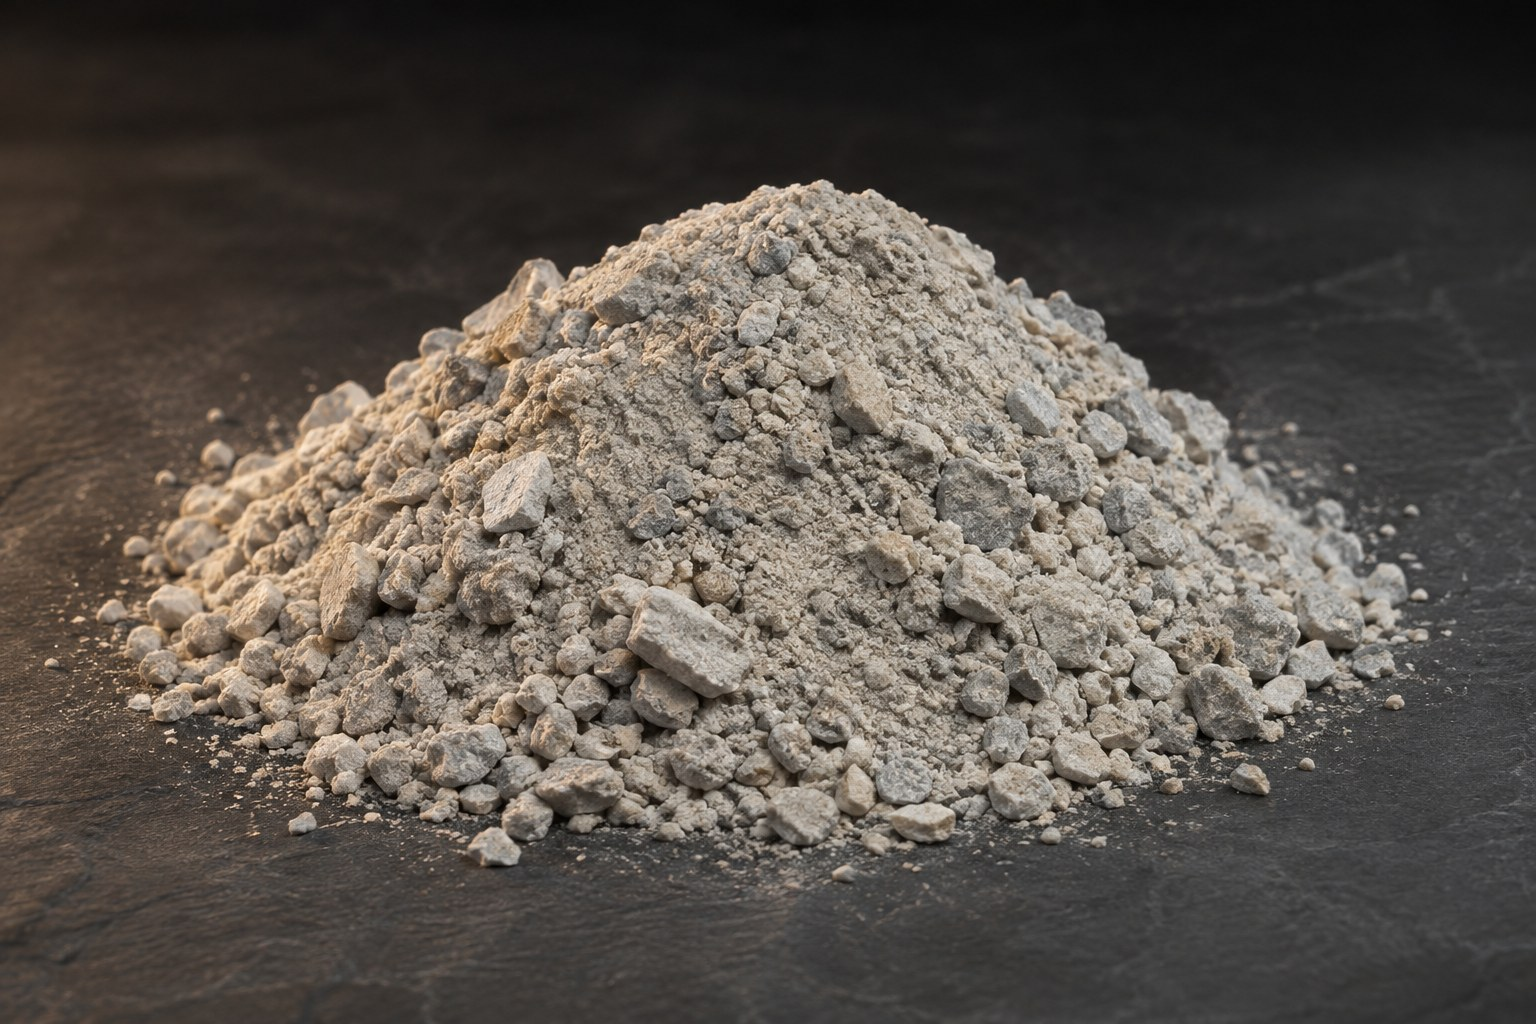
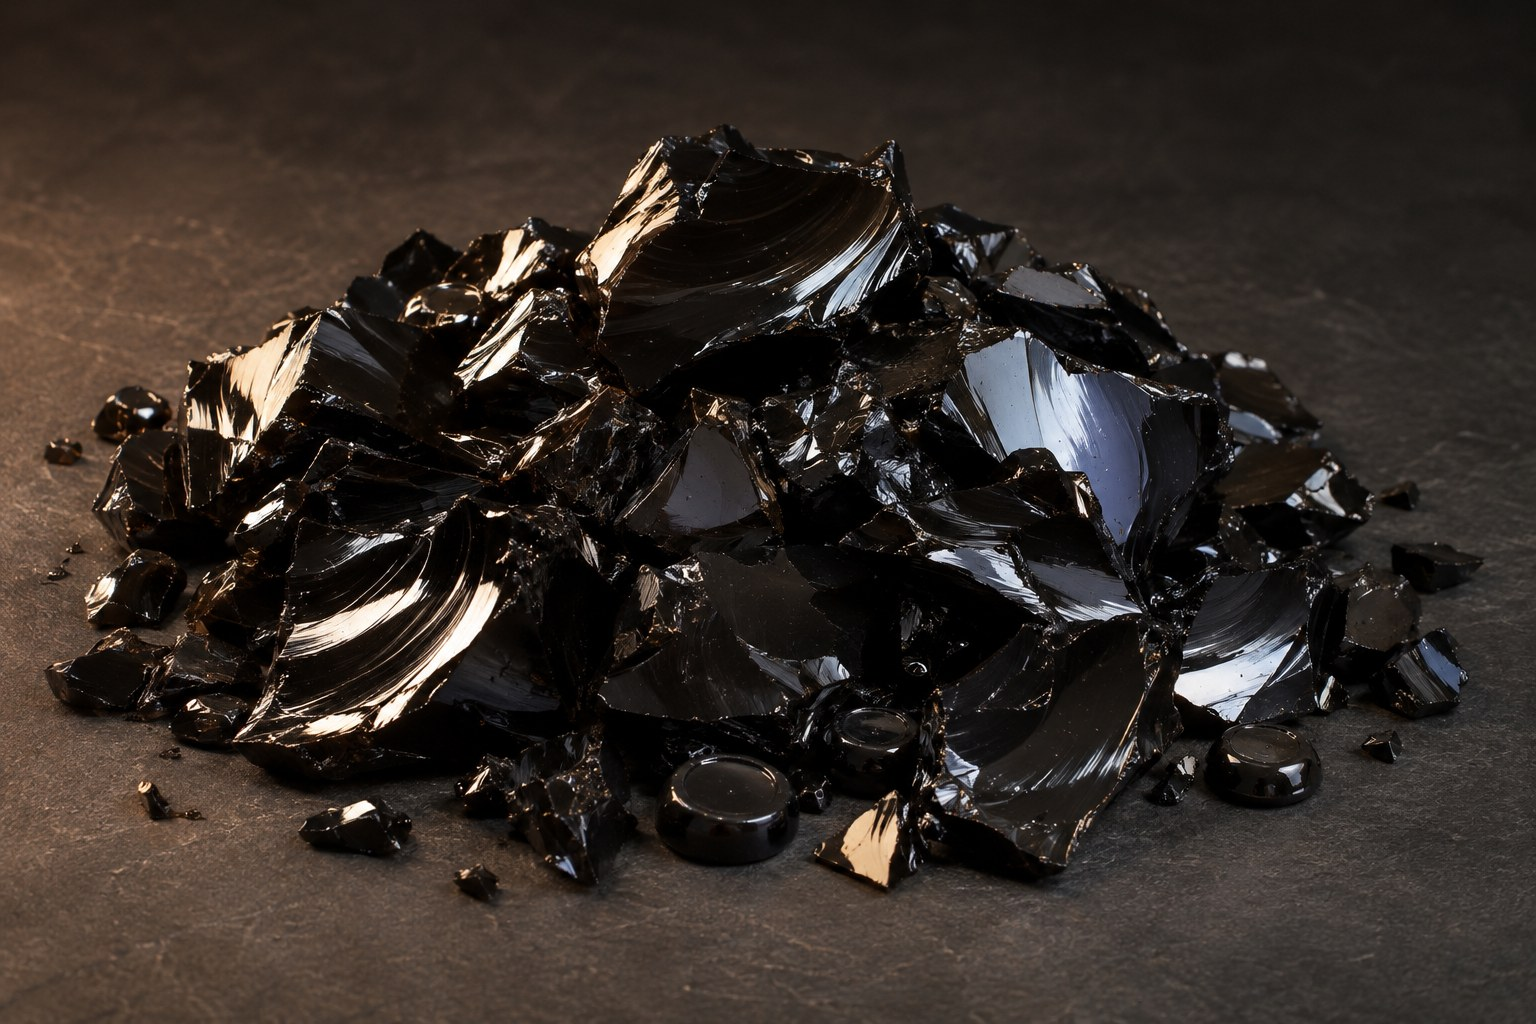
Пек высокотемпературный вместо «ПЭК»
По замечанию заказчика: название, описание и фото (глянцевый
каменноугольный пек вместо светлого сырья).

diff --git a/src/data/catalog.ts b/src/data/catalog.ts
@@ -5,7 +5,7 @@ export const products: Product[] = [
   { slug: 'bauxite', title: 'Боксит кальцинированный', text: 'Высокоглинозёмистый заполнитель для огнеупорных бетонов и изделий' },
   { slug: 'andalusite', title: 'Андалузит', text: 'Алюмосиликатное сырьё для термостойких огнеупоров' },
   { slug: 'mullite', title: 'Муллит', text: 'Заполнитель с низким тепловым расширением' },
-  { slug: 'pek', title: 'ПЭК', text: 'Сырьё для огнеупорной промышленности' },
+  { slug: 'pek', title: 'Пек высокотемпературный', text: 'Каменноугольный пек — связующее для углеродсодержащих огнеупоров' },
   { slug: 'dispersants', title: 'Диспергирующие присадки', text: 'Алл200, Алл300, ADS, ADW, MADS, MADW — для низкоцементных бетонов' },
   { slug: 'castables', title: 'Цементы и бетоны', text: 'Для монолитной футеровки и производства изделий' },
   { slug: 'anchors', title: 'Анкерные крепления', text: 'Металлические и керамические, под проект футеровки' },

diff --git a/src/scripts/lining3d.ts b/src/scripts/lining3d.ts
@@ -159,7 +159,7 @@ export function createLining(opts: Options) {
   (glow.material as THREE.SpriteMaterial).opacity = 0.55;
   root.add(glow);
 
-  // --- Сырьё: зёрна (боксит, андалузит, муллит, ПЭК) — облако частиц у бетона
+  // --- Сырьё: зёрна (боксит, андалузит, муллит, пек) — облако частиц у бетона
   const N = 900;
   const pos = new Float32Array(N * 3);
   const base = new Float32Array(N * 3);

diff --git a/tools/codex/gen_pek.md b/tools/codex/gen_pek.md
@@ -1,0 +1,8 @@
+Use your built-in image generation tool (imagegen skill, built-in mode — NOT the CLI/API fallback) to create ONE photorealistic product photograph, then save it into the workspace as:
+/Users/al.serkov/Projects/Personal/minsteel/src/assets/products/pek-v2.png
+
+Subject: a heap of high-temperature coal tar pitch (каменноугольный пек высокотемпературный) — jet-black, glossy, glassy solid pieces and granules/pastilles 5–30 mm with sharp conchoidal (shell-like) fractures and mirror-like reflective faces, a few smaller black fragments around. It must clearly read as black glossy pitch, NOT matte coal, NOT charcoal, NOT gravel.
+
+Style (must match an existing series of 8 photos): real commercial product photography, full-frame camera, 100mm macro lens, f/5.6, high detail, not CGI. Material lies on a matte dark graphite/slate stone surface; background falls off to near-black; soft warm key light from the left creating bright specular highlights on the glossy black faces, subtle cool fill. Landscape 3:2 (1536x1024), subject centered with breathing room. No text, no labels, no logos, no hands, no people, no watermarks.
+
+If the result looks like a 3D render or like matte coal, regenerate once with stronger wording. When done, print only the saved file path.
